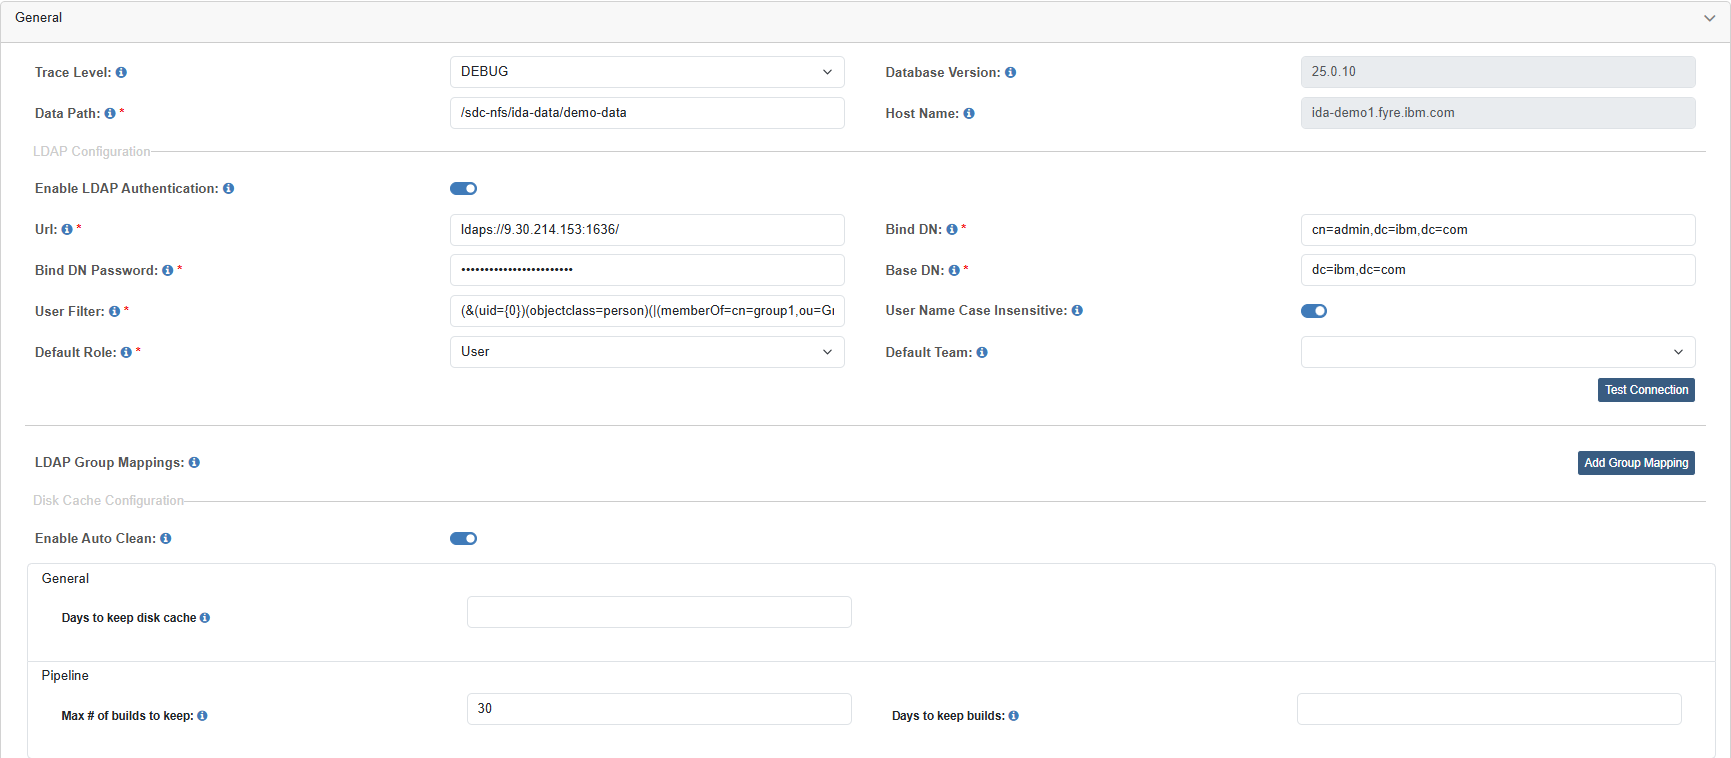
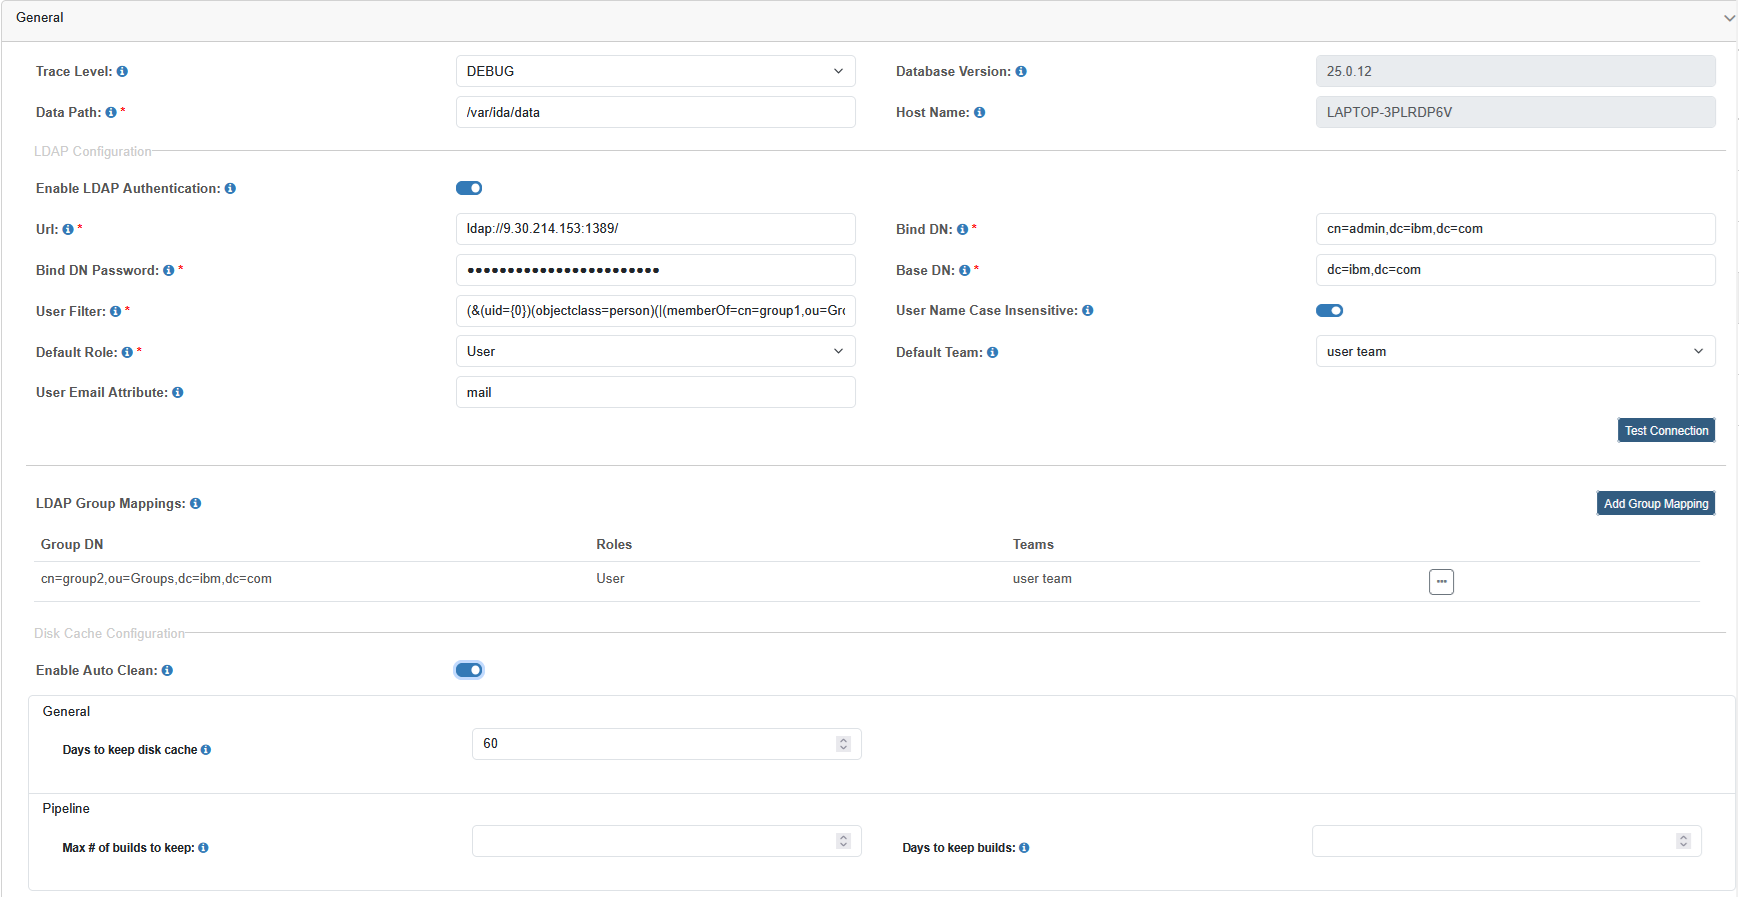
Update LDAP settings

diff --git a/_posts/2018-10-17-administration-settings-configuration.md b/_posts/2018-10-17-administration-settings-configuration.md
@@ -2,7 +2,7 @@
 title: "Settings Configuration"
 category: administration
 date: 2018-10-17 15:17:55
-last_modified_at: 2025-10-30 13:59:00
+last_modified_at: 2025-12-26 13:59:00
 ---
 
 # Settings Configuration
@@ -27,6 +27,7 @@ User Filter | LDAP user filter pattern, use '#' to split multiple user filter pa
 User Name Case Insensitive | Whether the LDAP server is case insensitive or not, default value is true.
 Default Role | Default role assigned to LDAP user when user logs in IDA for the first time.
 Default Team | Default team assigned to LDAP user when user logs in IDA for the first time.
+User Email Attribute | User Email Attribute is used to synchronize LDAP user email into IDA user profile, when LDAP user logs in IDA for the first time.
 LDAP Group Mappings | Map LDAP groups to IDA roles and teams. When LDAP user logs in IDA for the first time, mappings below are checked to assign roles and teams to the user.
 Enable Auto Clean | Enable disk cache auto clean. Pipeline auto clean settings overwrite general auto clean settings. For all the disk cache information, check the **Clean Disk Cache** page under menu **Administration**. 
 Days to keep disk cache | If not empty, disk cache is only kept up to this number of days.

diff --git a/_posts/2018-10-01-administration-users-management.md b/_posts/2018-10-01-administration-users-management.md
@@ -47,7 +47,7 @@ last_modified_at: 2025-12-26 12:00:00
    	![][administrator_active_user]{:width="100%"}
 
 ## Remove a User
-  1. Click the **Edit** icon on the right of the user you want to remove.
+  1. Click the **Remove** icon on the right of the user you want to remove.
 
      ![][administrator_remove_user]{:width="70%"}
 
